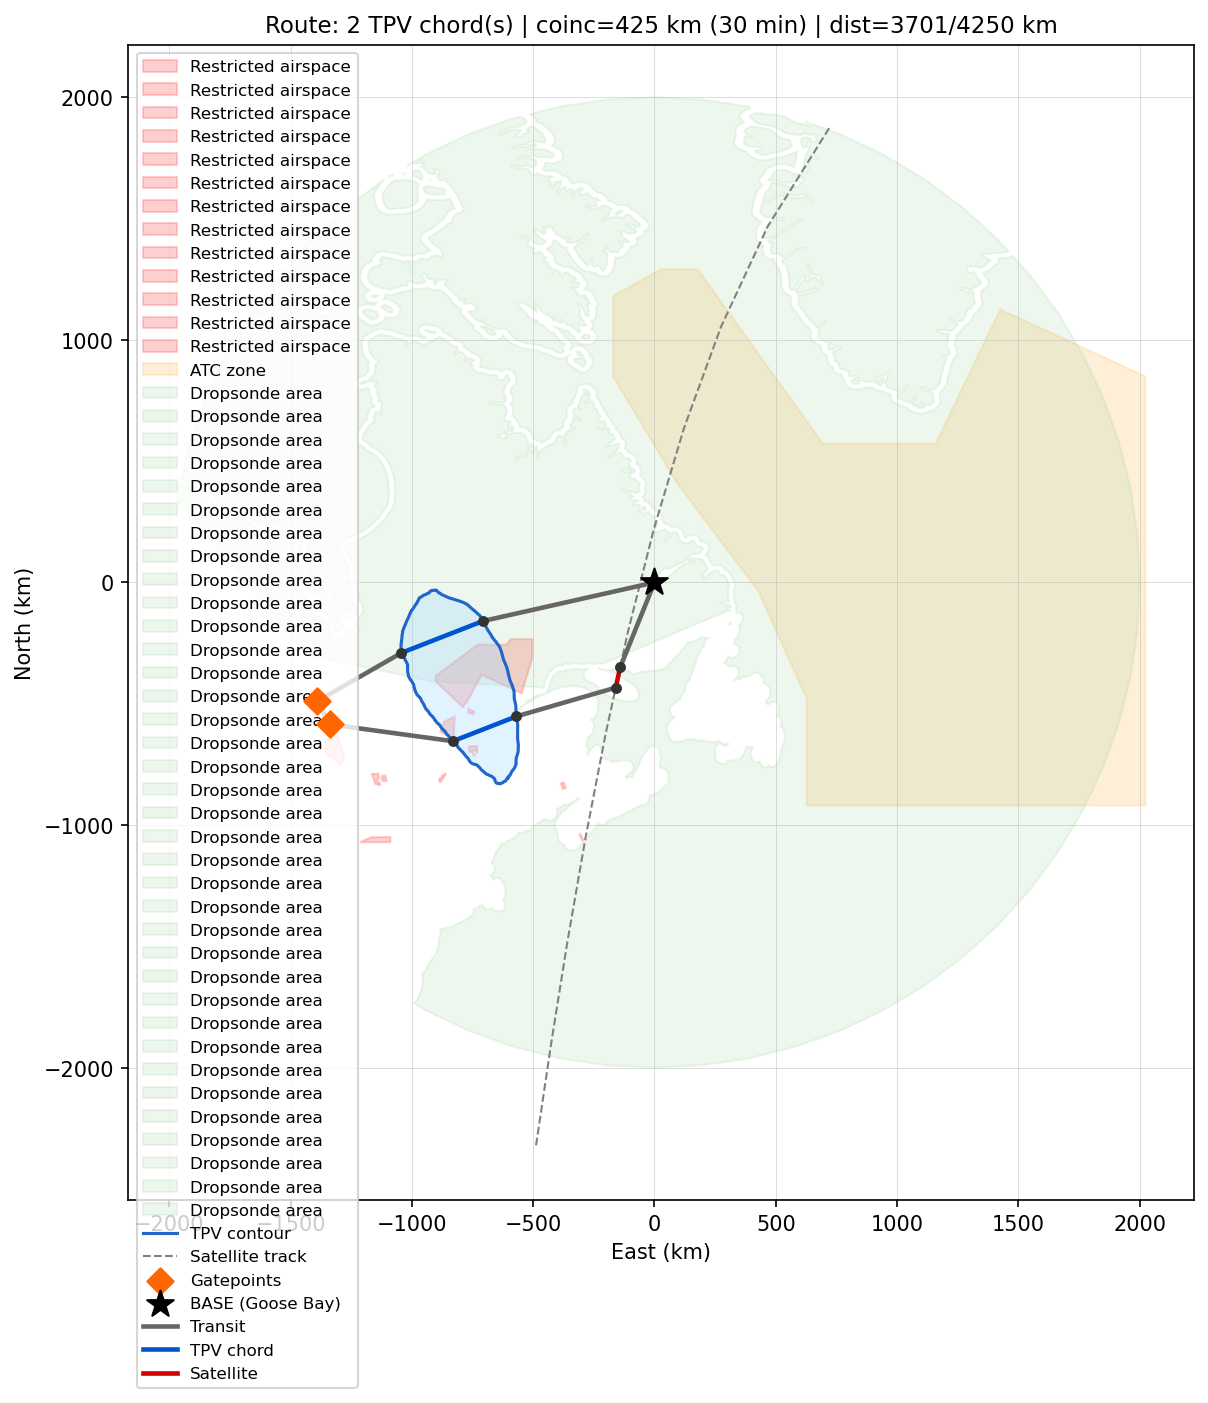
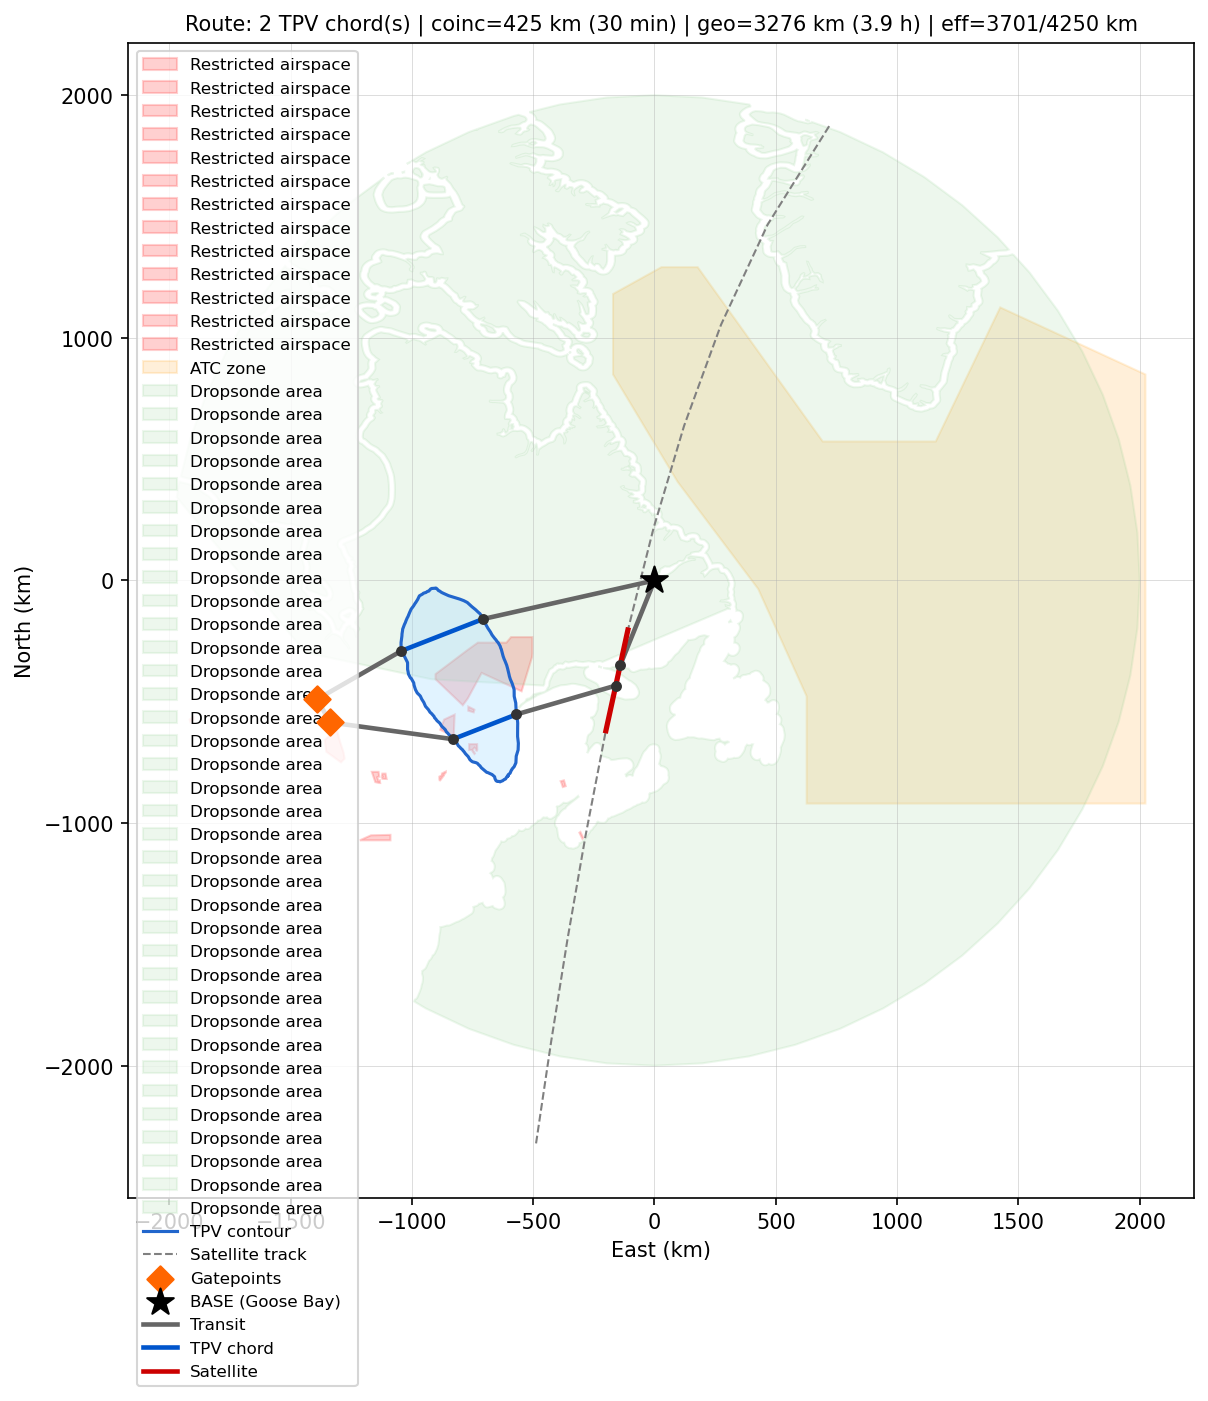
Fix satellite arc visualization and add flight time output
- Draw satellite coincidence segment along actual track geometry
  (was: straight chord ~85 km; now: interpolated arc 425 km)
- Add arc_interp / sat_arc_waypoints helpers to plan_route_field.py
- Save geo_dist in route result; add flight time to txt and png title
- Route: geo=3276 km, flight=3.85 h (231 min), coinc=425 km (30 min)

diff --git a/plan_route_field.py b/plan_route_field.py
@@ -160,6 +160,24 @@ def route_dropsonde_dist(wpts, dropsonde_geom):
     return total
 
 
+# ── Satellite track interpolation ────────────────────────────────────────────
+def arc_interp(pts, cum, t):
+    k = int(np.searchsorted(cum, t, side='right')) - 1
+    k = max(0, min(len(pts) - 2, k))
+    frac = (t - cum[k]) / max(float(np.linalg.norm(pts[k + 1] - pts[k])), 1e-9)
+    return pts[k] + frac * (pts[k + 1] - pts[k])
+
+
+def sat_arc_waypoints(pa, arc_km, seg_pts, cum_arc, n_pts=60):
+    """Return dense intermediate points along satellite track from pa for arc_km."""
+    dists = np.linalg.norm(seg_pts - pa, axis=1)
+    k0    = int(np.argmin(dists))
+    t_e   = float(cum_arc[k0])
+    t_x   = min(t_e + arc_km, float(cum_arc[-1]))
+    ts    = np.linspace(t_e, t_x, max(n_pts, int(arc_km / 5) + 2))
+    return np.array([arc_interp(seg_pts, cum_arc, t) for t in ts])
+
+
 # ── Incremental graph extension ───────────────────────────────────────────────
 def extend_graph(cache, dynamic_pts):
     """Add dynamic_pts (chord endpoints + GPs) to the precomputed static graph.
@@ -365,7 +383,8 @@ def build_route_field(base, stops, T_sat_h,
 
     return dict(
         waypoints=np.array(wpts), seg_types=segs,
-        total_dist=eff_dist, tpv_dist=tpv_dist, coinc_dist=coinc_dist,
+        total_dist=eff_dist, geo_dist=geo_dist,
+        tpv_dist=tpv_dist, coinc_dist=coinc_dist,
         n_turns=n_turns, feasible=feasible,
         budget_remaining=TOTAL_BUDGET_KM - eff_dist, T_dep_h=T_dep_h,
     )
@@ -643,6 +662,8 @@ def main():
     sign   = '+' if offset >= 0 else ''
     drop_dist = route_dropsonde_dist(best_r['waypoints'], cache['dropsonde_union'])
     drop_min  = drop_dist / AC_SPEED * 60.0
+    flight_h  = best_r['geo_dist'] / AC_SPEED
+    flight_min = flight_h * 60.0
 
     print(f'\n{"="*60}')
     print(f'Total time: {t_total:.1f}s  (search {t_search:.1f}s)')
@@ -652,6 +673,8 @@ def main():
           + (f'  [extended from {arc_km_min:.0f} km ({coinc_orig_min:.0f} min)]'
              if arc_km_ext > arc_km_min + 1e-3 else ''))
     print(f'Dropsonde       : {drop_dist:.0f} km  ({drop_min:.0f} min)')
+    print(f'Total geo. dist : {best_r["geo_dist"]:.0f} km  '
+          f'| flight time: {flight_h:.2f} h  ({flight_min:.0f} min)')
     print(f'Total eff. dist : {best_r["total_dist"]:.0f} km  '
           f'(budget {TOTAL_BUD:.0f} km, remaining {best_r["budget_remaining"]:.0f} km)')
     print(f'Turns           : {best_r["n_turns"]}')
@@ -671,6 +694,8 @@ def main():
                     if arc_km_ext > arc_km_min + 1e-3 else '')
         f.write(f'Coincidence     : {arc_km_ext:.0f} km  ({coinc_min:.0f} min){ext_note}\n')
         f.write(f'Dropsonde       : {drop_dist:.0f} km  ({drop_min:.0f} min)\n')
+        f.write(f'Total geo. dist : {best_r["geo_dist"]:.0f} km\n')
+        f.write(f'Flight time     : {flight_h:.2f} h  ({flight_min:.0f} min)\n')
         f.write(f'Total eff. dist : {best_r["total_dist"]:.0f} km  '
                 f'(budget {TOTAL_BUD:.0f} km, remaining {best_r["budget_remaining"]:.0f} km)\n')
         f.write(f'Turns           : {best_r["n_turns"]}\n')
@@ -714,15 +739,26 @@ def main():
     ax.plot(st[:, 0], st[:, 1], color='gray', lw=1, ls='--',
             zorder=2, label='Satellite track')
 
-    # Route coloured by segment type
+    # Route coloured by segment type (skip 'sat' — drawn separately along track)
     seg_colors = {'transit': '#666666', 'tpv': '#0055cc', 'sat': '#cc0000'}
     wpts = best_r['waypoints']
     segs = best_r['seg_types']
     for k in range(len(wpts) - 1):
         seg = segs[k] if k < len(segs) else 'transit'
+        if seg == 'sat':
+            continue  # drawn below using actual track geometry
         col = seg_colors.get(seg, '#333333')
         ax.plot([wpts[k, 0], wpts[k + 1, 0]], [wpts[k, 1], wpts[k + 1, 1]],
                 color=col, lw=2.2, zorder=5)
+
+    # Satellite arc: draw along actual track geometry, not chord
+    if sat_entry_key is not None:
+        _seg_pts = cache['sat_track']['seg_pts']
+        _cum_arc = cache['sat_track']['cum_arc']
+        pa_best  = np.array(sat_entry_key)
+        arc_wpts = sat_arc_waypoints(pa_best, arc_km_ext, _seg_pts, _cum_arc)
+        ax.plot(arc_wpts[:, 0], arc_wpts[:, 1],
+                color='#cc0000', lw=2.5, zorder=6)
 
     # Waypoint markers
     ax.scatter(wpts[1:-1, 0], wpts[1:-1, 1], s=18, color='#333333', zorder=6)
@@ -745,8 +781,9 @@ def main():
     ax.set_ylabel('North (km)')
     ax.set_title(
         f'Route: {best_n} TPV chord(s) | coinc={arc_km_ext:.0f} km ({coinc_min:.0f} min) '
-        f'| dist={best_r["total_dist"]:.0f}/{TOTAL_BUD:.0f} km',
-        fontsize=11)
+        f'| geo={best_r["geo_dist"]:.0f} km ({flight_h:.1f} h) '
+        f'| eff={best_r["total_dist"]:.0f}/{TOTAL_BUD:.0f} km',
+        fontsize=10)
     ax.legend(loc='upper left', fontsize=8)
     ax.grid(True, lw=0.4, alpha=0.5)
 